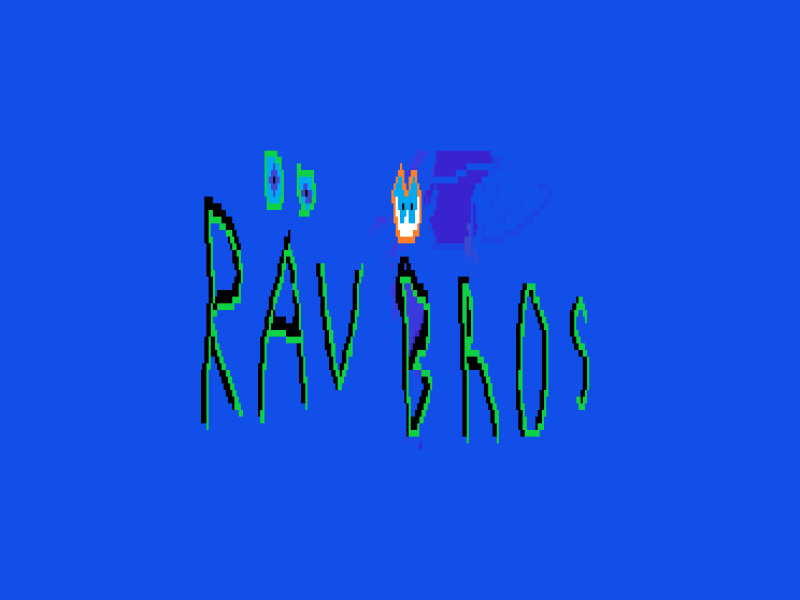
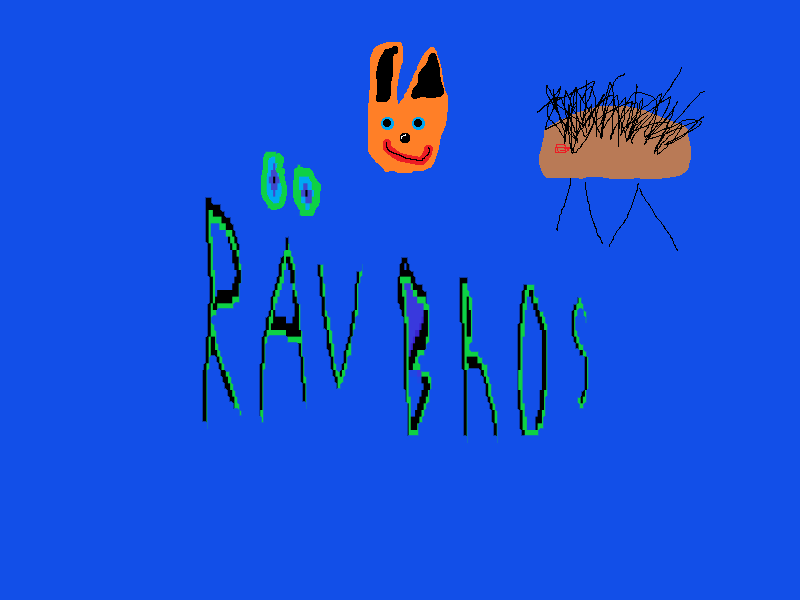
NAJS

diff --git a/Rävbros!/Rävbros race.py b/Rävbros!/Rävbros race.py
@@ -3,7 +3,7 @@ poäng=0
 HOJD=600
 BREDD=800
 räv=Actor("fox")
-apelsin=Actor("orange")
+apelsin=Actor("monster_left")
 räv.x=50
 räv.y=550
 apelsin.x=750
